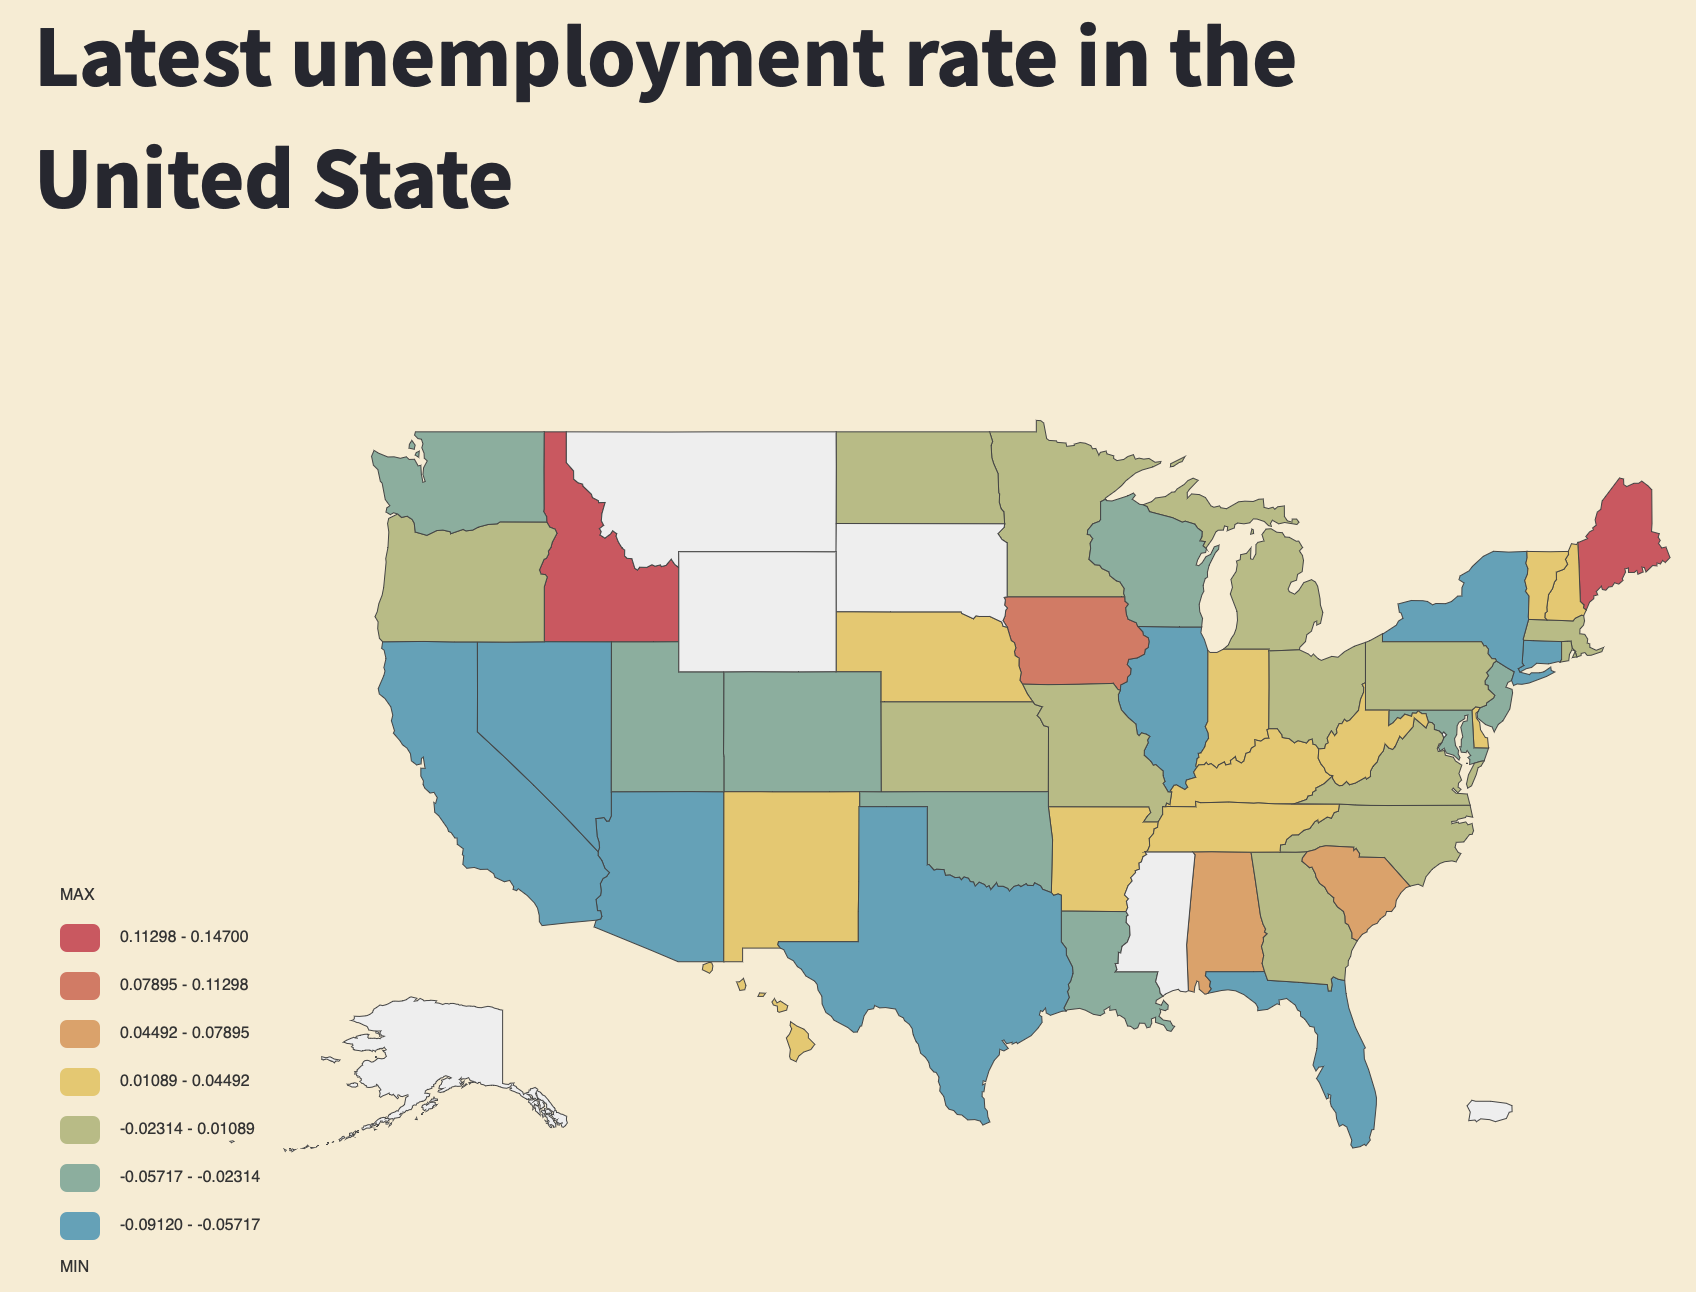
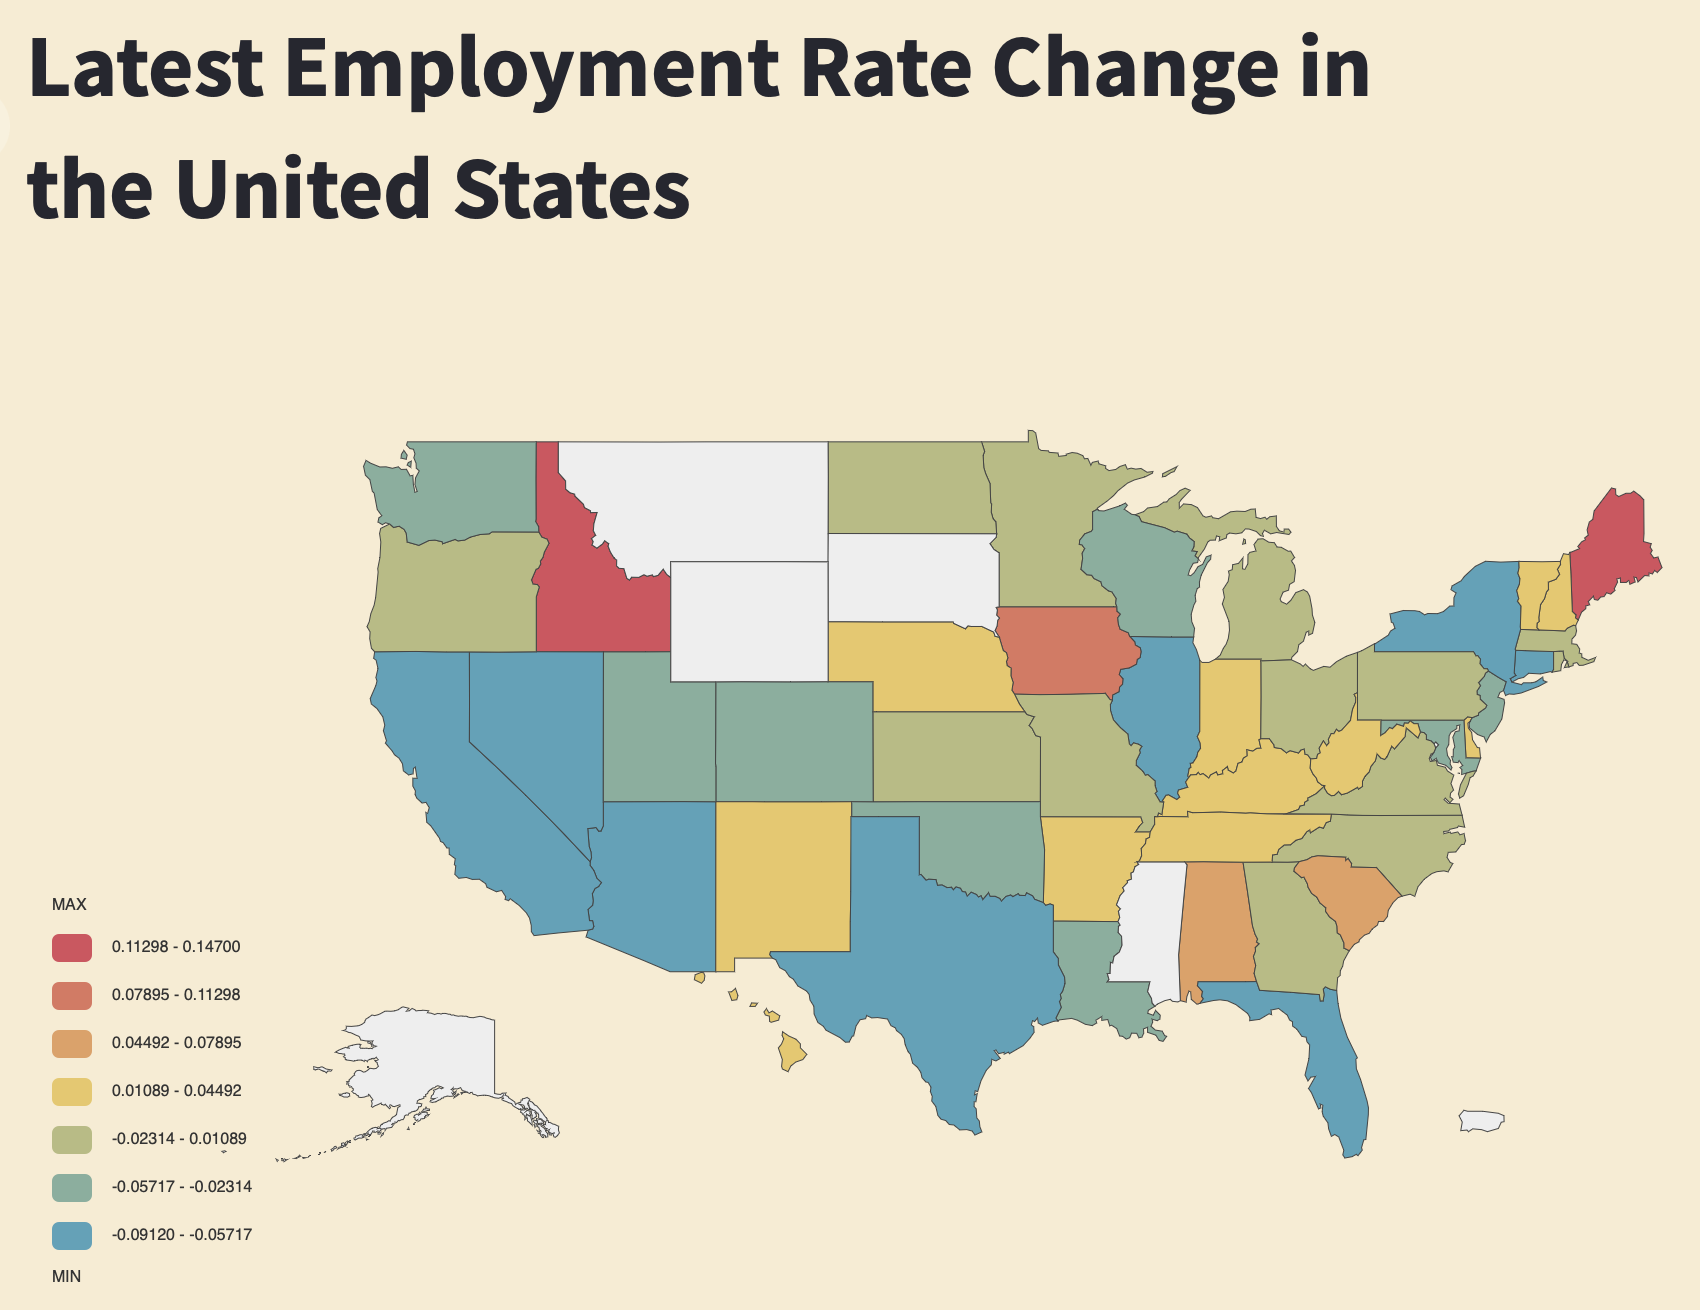
fix typo

diff --git a/apps/main.py b/apps/main.py
@@ -49,7 +49,7 @@ def app():
         st.image('pics/page4.png')
 
     st.subheader('🇺🇸 US Heatmap')
-    st.write('In this page, we present the heatmap that depicts the latest unemployment rate in the United Stats. Each cell reports a numeric count of unemployment rate, with larger counts associated with darker colorings. By clicking the color palette on the left side, you can see the corresponding states that falls into the chosen unemployment range.')
+    st.write('In this page, we present the heatmap that depicts the latest unemployment rate in the United States. Each cell reports a numeric count of unemployment rate, with larger counts associated with darker colorings. By clicking the color palette on the left side, you can see the corresponding states that falls into the chosen unemployment range.')
     with st.expander("See details"):
         st.write("""
             The image below shows the overview of the US Heatmap.

diff --git a/apps/heatmap.py b/apps/heatmap.py
@@ -7,7 +7,7 @@ import plotly.express as px
 import streamlit.components.v1 as components
 
 def app():
-    st.title("Latest Employment Rate Change in the United State")
+    st.title("Latest Employment Rate Change in the United States")
     HtmlFile = open("frontend/heatmap_emp.html", 'r', encoding='utf-8')
     source_code = HtmlFile.read() 
     print(source_code)
